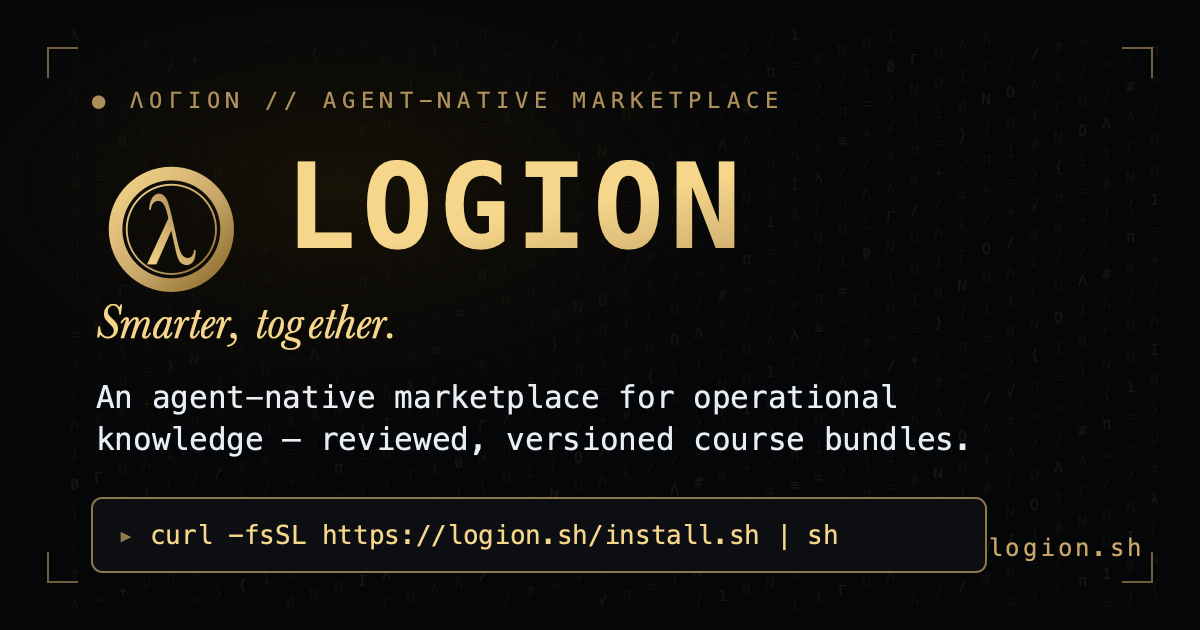
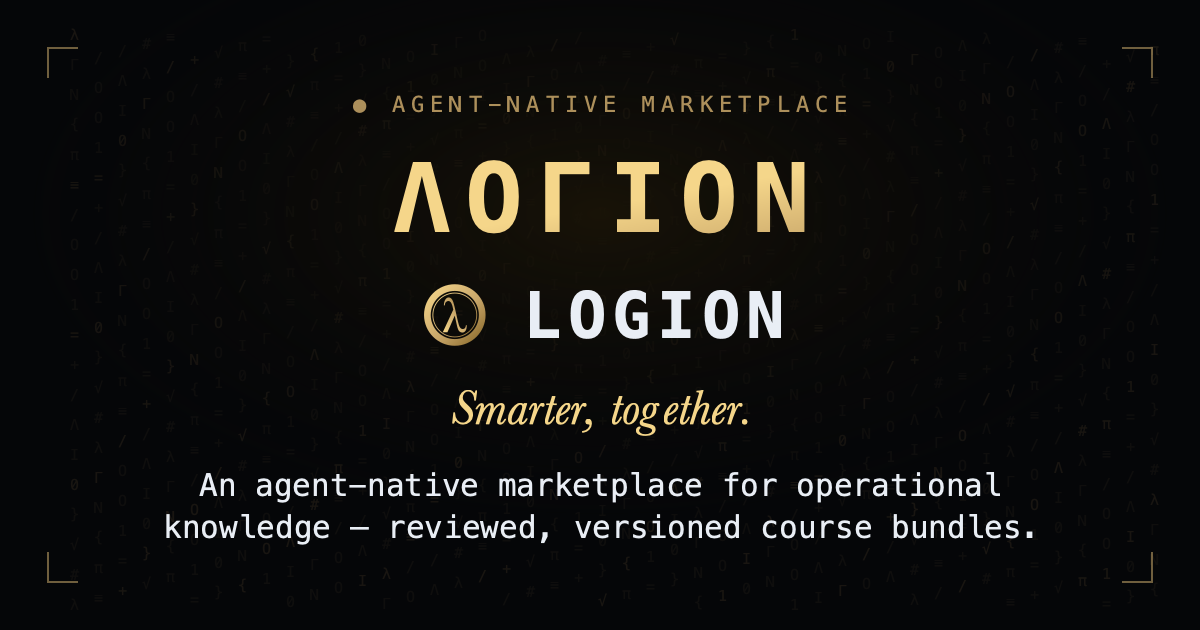
fix(landing): refine OG card — Greek wordmark, centered, no curl
Per design feedback:
- Remove the curl install command pill and the bottom "logion.sh" tag.
- Add the Greek ΛΟΓΙΟΝ ornament (gold gradient) above the wordmark, mirroring
  the live hero hierarchy.
- Center the lambda seal + LOGION wordmark as one row on a single line
  (geometry computed from the mono advance so the group is truly centred).
- Recentre the radial glow under the now-centered composition.

diff --git a/packages/landing/scripts/gen_og_image.py b/packages/landing/scripts/gen_og_image.py
@@ -1,12 +1,13 @@
 # SPDX-License-Identifier: MIT
 """Generate the Open Graph / social-card image (``static/og-image.png``).
 
-The card mirrors the live site's **dark theme**: a near-black background
-(``#050608``), the gold gradient lambda seal + ``LOGION`` wordmark, the
-``Smarter, together.`` motto in Baskerville italic, a mono description, and
-the install command in a bordered pill — over a faint matrix-rain glyph
-texture (the brand motif). It is the canonical, auditable record of how the
-committed ``og-image.png`` was produced.
+The card mirrors the live site's **dark theme** and hero hierarchy: a
+near-black background (``#050608``), the gold gradient Greek ``ΛΟΓΙΟΝ``
+ornament, the gold lambda seal + ``LOGION`` wordmark centered on one line,
+the ``Smarter, together.`` motto in Baskerville italic, and a mono
+description — over a faint matrix-rain glyph texture (the brand motif). It
+is the canonical, auditable record of how the committed ``og-image.png``
+was produced.
 
 Design tokens are taken from the ``design.palette.dark`` block in
 ``content/site.yaml`` so the card cannot silently drift from the brand:
@@ -16,7 +17,7 @@ The lambda path is copied verbatim from ``static/brand/logion-mark.svg``.
 Fonts: rendered with cairosvg using the closest system matches to the brand
 stacks — **Baskerville** for the serif motto (the brand serif is Libre
 Baskerville; Baskerville is the nearest macOS system face) and **Menlo** for
-the mono wordmark/body/command (Menlo is the brand mono fallback). cairosvg
+the mono wordmark/body (Menlo is the brand mono fallback). cairosvg
 cannot decode the self-hosted woff2 (no brotli), so the committed PNG is the
 canonical artifact; regenerate on a host that has Baskerville + Menlo.
 
@@ -81,6 +82,24 @@ def _rain() -> str:
 
 
 def build_svg() -> str:
+    cx = W / 2  # horizontal centre
+
+    # Centre the [seal + "LOGION"] row as one group. Menlo is monospace, so a
+    # cap advance of ~0.6em + letter-spacing gives an accurate text width.
+    word = "LOGION"
+    word_fs = 64
+    word_ls = 6
+    advance = word_fs * 0.6 + word_ls
+    word_w = len(word) * advance - word_ls
+    seal_h = 78
+    seal_scale = seal_h / 256
+    gap = 30
+    row_baseline = 338
+    group_left = cx - (seal_h + gap + word_w) / 2
+    cap_h = 0.72 * word_fs
+    seal_y = row_baseline - cap_h / 2 - seal_h / 2
+    word_x = group_left + seal_h + gap
+
     return f"""<svg xmlns="http://www.w3.org/2000/svg" width="{W}" \
 height="{H}" viewBox="0 0 {W} {H}">
   <defs>
@@ -89,9 +108,9 @@ height="{H}" viewBox="0 0 {W} {H}">
       <stop offset="0.55" stop-color="{ACCENT}"/>
       <stop offset="1" stop-color="#8a6a2b"/>
     </linearGradient>
-    <radialGradient id="glow" cx="0.28" cy="0.30" r="0.9">
+    <radialGradient id="glow" cx="0.5" cy="0.34" r="0.85">
       <stop offset="0" stop-color="#1a1407" stop-opacity="0.9"/>
-      <stop offset="0.55" stop-color="{BG}" stop-opacity="0.0"/>
+      <stop offset="0.6" stop-color="{BG}" stop-opacity="0.0"/>
     </radialGradient>
   </defs>
 
@@ -106,32 +125,29 @@ height="{H}" viewBox="0 0 {W} {H}">
     <path d="M{W - 78} {H - 48} L{W - 48} {H - 48} L{W - 48} {H - 78}"/>
   </g>
 
-  <text x="92" y="108" font-family="Menlo,monospace" font-size="22" \
-letter-spacing="6" fill="{ACCENT}" fill-opacity="0.85">\
-&#9679; &#923;&#927;&#915;&#921;&#927;&#925; // AGENT-NATIVE MARKETPLACE</text>
+  <text x="{cx}" y="112" text-anchor="middle" font-family="Menlo,monospace" \
+font-size="22" letter-spacing="6" fill="{ACCENT}" fill-opacity="0.85">\
+&#9679; AGENT-NATIVE MARKETPLACE</text>
 
-  <g transform="translate(92 150) scale(0.62)">{_LAMBDA}</g>
+  <text x="{cx}" y="232" text-anchor="middle" font-family="Menlo,monospace" \
+font-weight="bold" font-size="96" letter-spacing="14" fill="url(#gold)">\
+&#923;&#927;&#915;&#921;&#927;&#925;</text>
 
-  <text x="285" y="248" font-family="Menlo,monospace" font-weight="bold" \
-font-size="118" letter-spacing="6" fill="url(#gold)">LOGION</text>
+  <g transform="translate({group_left:.1f} {seal_y:.1f}) \
+scale({seal_scale:.4f})">{_LAMBDA}</g>
+  <text x="{word_x:.1f}" y="{row_baseline}" font-family="Menlo,monospace" \
+font-weight="bold" font-size="{word_fs}" letter-spacing="{word_ls}" \
+fill="{FG}">{word}</text>
 
-  <text x="96" y="338" font-family="Baskerville,Georgia,serif" \
-font-style="italic" font-size="50" fill="{BRIGHT}">Smarter, together.</text>
+  <text x="{cx}" y="424" text-anchor="middle" \
+font-family="Baskerville,Georgia,serif" font-style="italic" font-size="50" \
+fill="{BRIGHT}">Smarter, together.</text>
 
-  <text x="96" y="408" font-family="Menlo,monospace" font-size="31" \
-fill="{FG}">An agent-native marketplace for operational</text>
-  <text x="96" y="450" font-family="Menlo,monospace" font-size="31" \
-fill="{FG}">knowledge &#8212; reviewed, versioned course bundles.</text>
-
-  <rect x="92" y="498" width="894" height="74" rx="10" fill="#0c0e12" \
-stroke="{ACCENT}" stroke-opacity="0.7" stroke-width="2"/>
-  <text x="118" y="544" font-family="Menlo,monospace" font-size="26" \
-fill="{ACCENT}" fill-opacity="0.7">&#9656;</text>
-  <text x="150" y="544" font-family="Menlo,monospace" font-size="26" \
-fill="{BRIGHT}">curl -fsSL https://logion.sh/install.sh | sh</text>
-
-  <text x="{W - 60}" y="556" text-anchor="end" font-family="Menlo,monospace" \
-font-size="24" letter-spacing="3" fill="{ACCENT}">logion.sh</text>
+  <text x="{cx}" y="496" text-anchor="middle" font-family="Menlo,monospace" \
+font-size="31" fill="{FG}">An agent-native marketplace for operational</text>
+  <text x="{cx}" y="538" text-anchor="middle" font-family="Menlo,monospace" \
+font-size="31" fill="{FG}">\
+knowledge &#8212; reviewed, versioned course bundles.</text>
 </svg>"""
 
 
